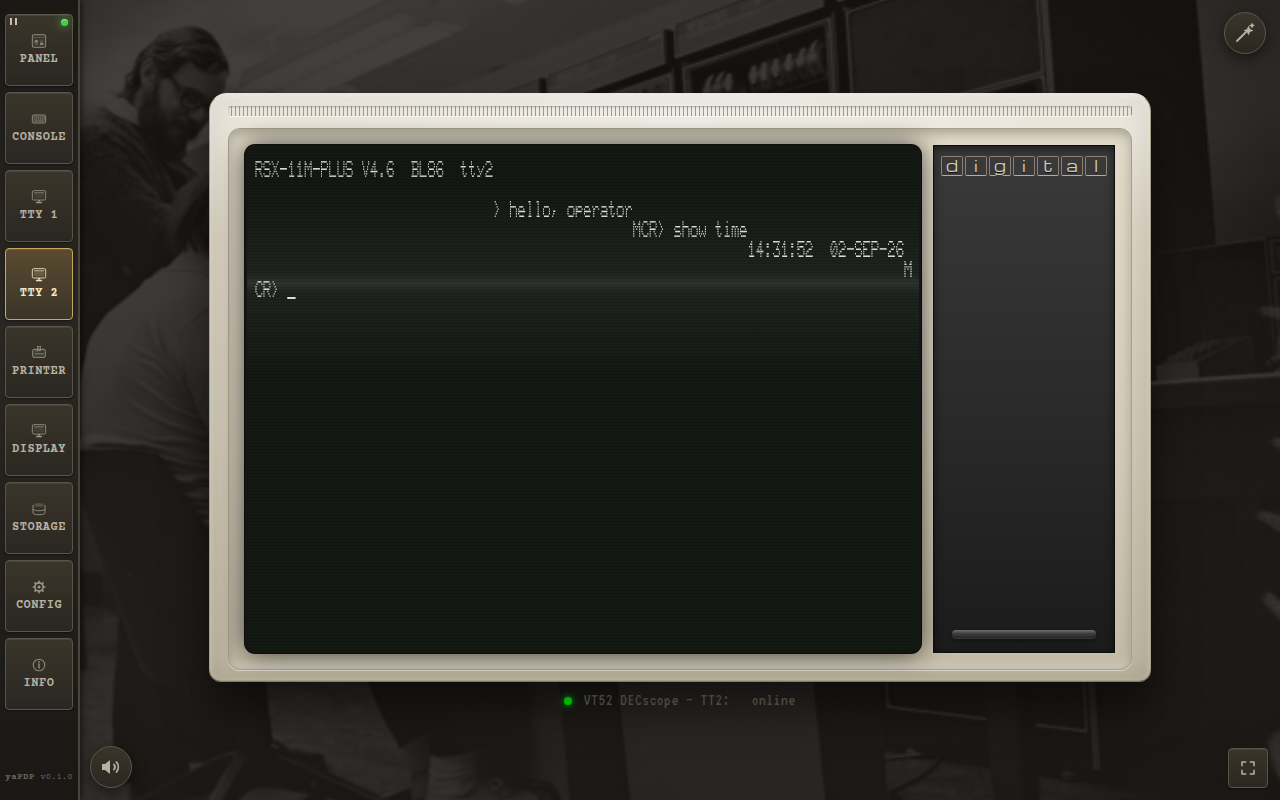
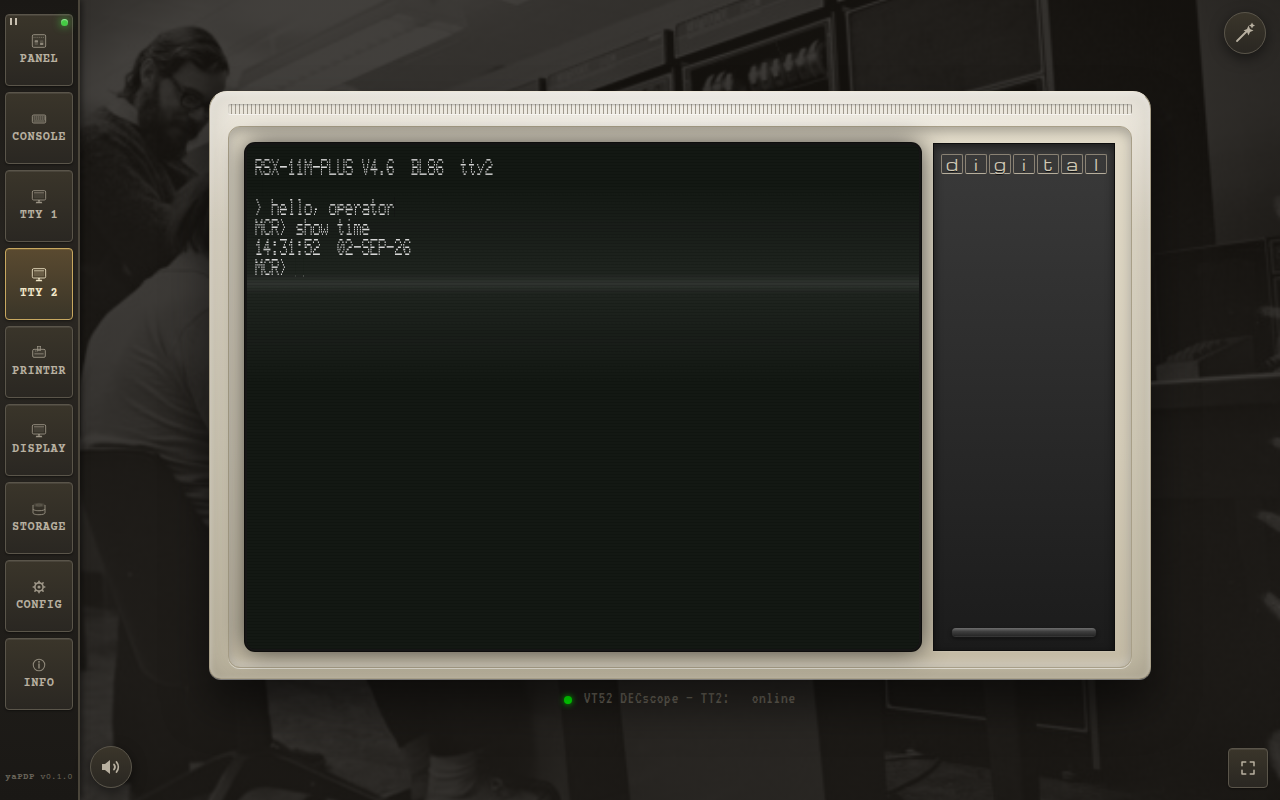
fix: VT52 manual screenshots stepped diagonally (bare LF, no CR)
screenshots-manual.js injected sample text into VT52 terminals with
newline-only line breaks. A real terminal treats LF as 'advance one
line, keep column' and CR as 'return to column 0' — the guest sends CR
LF pairs, so live sessions look right, but the injected '\n'-only text
made every line start at the previous line's end column (staircase).
vt52Text now normalises to CR LF; terminal-vt52/2 regenerated.

diff --git a/tools/screenshots-manual.js b/tools/screenshots-manual.js
@@ -100,10 +100,14 @@ const SAMPLE_LP11 = [
 // --- Inject helpers (run inside the page context) ------------------------
 
 // Feed sample text into a VT52 terminal unit (0 = console, 1/2 = user tty).
+// Real terminal output moves the cursor with CR LF pairs; a bare LF only
+// advances the line and leaves the column where it was, so the injected
+// sample text must use CR LF too — otherwise the lines step diagonally
+// ("\r not working") in the screenshot while live sessions look fine.
 async function vt52Text(page, unit, text) {
     await page.evaluate((u, s) => {
         if (typeof window.vt52Write === "function") window.vt52Write(u, s);
-    }, unit, text);
+    }, unit, text.replace(/\n/g, "\r\n"));
 }
 
 // Print a sample job on the LP11 line-printer paper.
